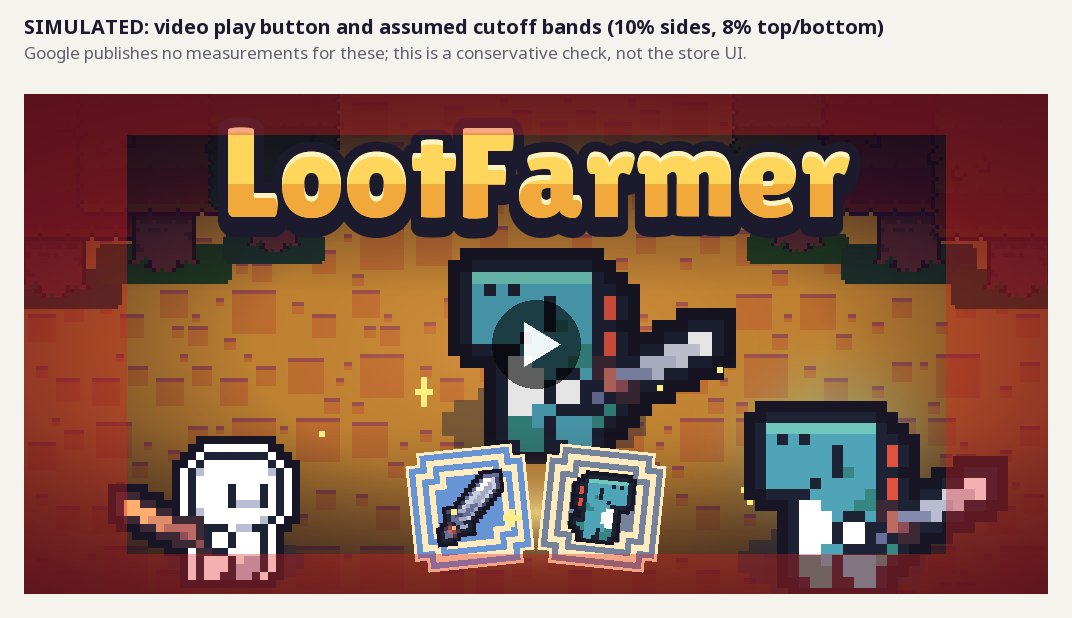
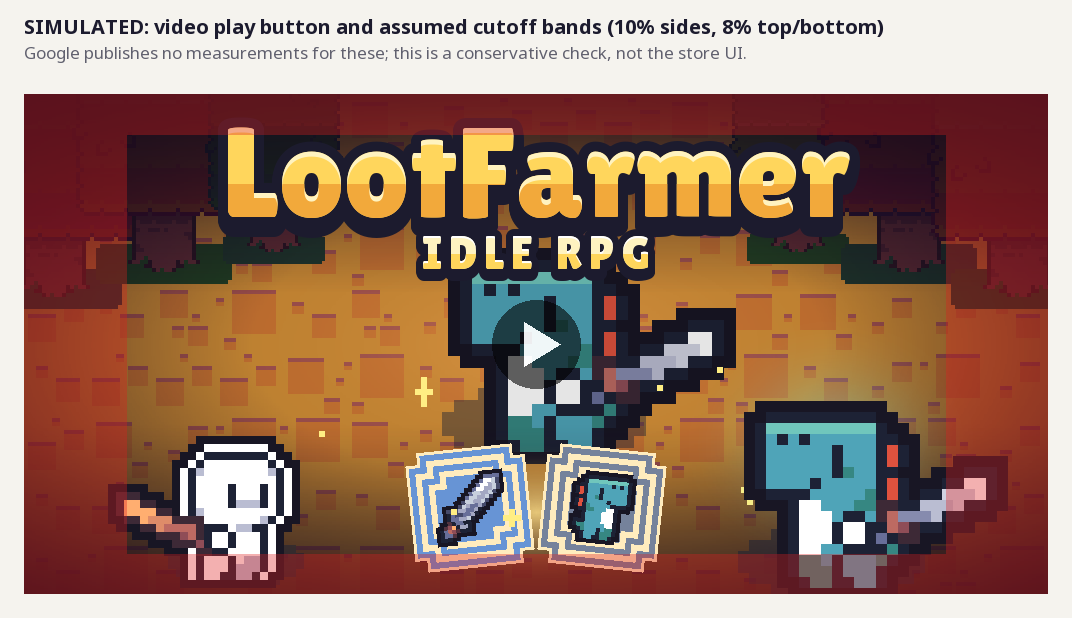
Change 28 correction: add IDLE RPG subtitle to feature graphic title
The approved name is "LootFarmer: Idle RPG". Add "IDLE RPG" as a subtitle
locked up beneath the unchanged LootFarmer title in the feature graphic and
in the portrait end-card framing preview.

- components.json: subtitle style (Lilita One, same dark outline and
  stepped depth, letter-spaced, cream-to-gold fill); new subtitle layer in
  final.json and portrait_endcard_preview.json, exported on its own.
- Composer: letter-spacing support through one text helper; with no
  tracking the title renders byte-identically (verified by hash).
- Pixel diff vs the previous version is confined to the subtitle's own
  box; characters, equipment, background and lighting unchanged.
- Readable at 240 px; inside the simulated safe area, clear of the
  simulated play button. Review sheets, evidence and docs regenerated.

Icons 5/5, screenshots 24/24 and trailer byte-identical; export manifest
PASS (232 files); suite 36/36.

Changed region(s): [[0.3694, 0.3689, 0.6157, 0.4612]]

diff --git a/marketing/brand/feature_graphic/compose_feature_graphic.py b/marketing/brand/feature_graphic/compose_feature_graphic.py
@@ -329,13 +329,27 @@ def layer_item(canvas, spec):
     place(canvas, treat(im, spec), spec['at'])
 
 
+def draw_text(d: ImageDraw.ImageDraw, xy, text: str, font, tracking: int = 0, **kw) -> None:
+    """ImageDraw.text with optional letter spacing; tracking 0 is the plain single call."""
+    if not tracking:
+        d.text(xy, text, font=font, **kw)
+        return
+    x, y = xy
+    for ch in text:
+        d.text((x, y), ch, font=font, **kw)
+        x += font.getlength(ch) + tracking
+
+
 def wordmark_image(spec: dict) -> Image.Image:
-    w = {**COMPONENTS['wordmark'], **spec}
+    # A layer may name a style (e.g. "subtitle") that overrides the wordmark defaults.
+    w = {**COMPONENTS['wordmark'], **COMPONENTS.get(spec.get('style', 'wordmark'), {}), **spec}
     font = ImageFont.truetype(str(ROOT / w['font']), w['size'])
     text = w['text']
     stroke = w['outline']
+    track = w.get('tracking', 0)
     probe = ImageDraw.Draw(Image.new('RGBA', (1, 1)))
-    box = probe.textbbox((0, 0), text, font=font, stroke_width=stroke)
+    box = list(probe.textbbox((0, 0), text, font=font, stroke_width=stroke))
+    box[2] += track * (len(text) - 1)
     depth = w.get('depth', 0)
     pad = stroke + depth + 4
     tw, th = box[2] - box[0] + 2 * pad, box[3] - box[1] + 2 * pad
@@ -344,12 +358,12 @@ def wordmark_image(spec: dict) -> Image.Image:
     org = (pad - box[0], pad - box[1] - depth // 2)
     dark = rgb(w['outline_color'])
     for i in range(depth, 0, -1):  # stepped extrusion, one pixel per step
-        d.text((org[0], org[1] + i), text, font=font, fill=dark, stroke_width=stroke, stroke_fill=dark)
-    d.text(org, text, font=font, fill=rgb(w['fill']), stroke_width=stroke, stroke_fill=dark)
+        draw_text(d, (org[0], org[1] + i), text, font, track, fill=dark, stroke_width=stroke, stroke_fill=dark)
+    draw_text(d, org, text, font, track, fill=rgb(w['fill']), stroke_width=stroke, stroke_fill=dark)
     if w.get('fill_bottom'):
         # Two-tone fill: the lower part of the letters in a deeper gold (a flat band, no blur).
         glyphs = Image.new('L', out.size, 0)
-        ImageDraw.Draw(glyphs).text(org, text, font=font, fill=255)
+        draw_text(ImageDraw.Draw(glyphs), org, text, font, track, fill=255)
         band = Image.new('L', out.size, 0)
         cut = org[1] + int((box[3] - box[1]) * w.get('fill_split', 0.62)) + box[1]
         ImageDraw.Draw(band).rectangle((0, cut, out.width, out.height), fill=255)
@@ -358,7 +372,7 @@ def wordmark_image(spec: dict) -> Image.Image:
         out.alpha_composite(low)
     if w.get('shine'):
         glyphs = Image.new('L', out.size, 0)
-        ImageDraw.Draw(glyphs).text(org, text, font=font, fill=255)
+        draw_text(ImageDraw.Draw(glyphs), org, text, font, track, fill=255)
         shifted = Image.new('L', out.size, 0)
         shifted.paste(glyphs, (0, w['shine'][1]))
         edge = ImageChops.subtract(glyphs, shifted)

diff --git a/marketing/brand/feature_graphic/README.md b/marketing/brand/feature_graphic/README.md
@@ -15,11 +15,11 @@ python marketing/brand/feature_graphic/compose_feature_graphic.py --check   # 10
 ```
 
 Requirements: Python 3 with Pillow (the same as `marketing/brand/compose_brand.py`). Output is
[2 lines of base64/hex data omitted]
 
 | File | What |
 |---|---|
-| `compositions/final.json` | **The store graphic.** 15 named layers, back to front, canvas-pixel coordinates. |
+| `compositions/final.json` | **The store graphic.** 16 named layers, back to front, canvas-pixel coordinates. |
 | `compositions/concept_a_loot_bridge.json`, `concept_b_wardrobe.json`, `concept_c_boss_drop.json` | The three explored concepts (A was selected). |
 | `compositions/portrait_endcard_preview.json` | Static 1080x1920 framing study for a *future* trailer end card. |
 | `components.json` | Shared pieces: actors (catalog outfit + weapon + frame), wordmark style, slot panel, spark sheet, tree boxes. |
@@ -44,8 +44,10 @@ Open `compositions/final.json`; each line is one layer. Common edits:
 - **Pose:** `"frame": [row, col]` on the 24x24 sheet (row 0 idle, row 3 the effort face) and `"swing": n`, the
   64x32 attack frame drawn over the body exactly as `scenes/game/actor.tscn` places it. Frame 0 + normal face is the
   game's attack wind-up; frame 2 + row 3 is the contact frame (big crescent, hides the face at this size).
-- **Wordmark:** `components.json > wordmark` (text, font, size, two-tone fill, outline, stepped depth). The title text
-  is the approved name only; the composer adds no other copy.
+- **Wordmark:** `components.json > wordmark` (text, font, size, two-tone fill, outline, stepped depth) and
+  `components.json > subtitle` ("IDLE RPG": same font, outline colour and stepped depth, smaller, letter-spaced,
+  cream-to-gold). Together they spell the approved title **LootFarmer: Idle RPG**; the composer adds no other copy.
+  A `wordmark` layer picks a style with `"style": "subtitle"`; `tracking` is letter spacing in pixels.
 - **Colour treatments:** `tint` + `tint_amount` (multiply), `darken`, `opacity`, `rim` (1 source-pixel outline),
   `glow` (soft light), `band` (gradient shade), `vignette`.
 
@@ -76,6 +78,7 @@ when moving layers.
 | 12 | hero_glow | colour treatment |
 | 13 | player_after | the same player wearing `boss-teal-dinosaur_outfit_t2` with `iron_sword` (wind-up frame), x11 |
 | 14 | wordmark | "LootFarmer", Lilita One (OFL), gold two-tone fill, dark outline, 10 px stepped depth |
+| 15 | subtitle | "IDLE RPG", Lilita One 46 px, 7 px tracking, cream-to-gold fill, the same dark outline and 5 px depth; drawn in front, tucked into the title's extrusion (ink y 135..187), clear of the boss's eyes and the simulated play button |
 
 ## Future portrait trailer end card (plan only; no video was made or changed)
 
@@ -83,7 +86,8 @@ The landscape graphic must **not** be stretched or cropped into 9:16. Recompose 
 (`source_layers/final/` or, better, re-render `portrait_endcard_preview.json`, which already restages them):
 
 - **Canvas 1080x1920.** Safe margins: 90 px left/right, 220 px top, 300 px bottom (platform UI and captions).
-- **Title:** wordmark at 168 px Lilita (about 840 px wide), centred at y = 640 (upper third), on the dark top shade.
+- **Title:** wordmark at 168 px Lilita (about 840 px wide), centred at y = 640 (upper third), on the dark top shade;
+  "IDLE RPG" subtitle at 62 px (9 px outline, 7 px depth, 10 px tracking) centred at y = 758, tucked under it.
 - **Story, top to bottom:** boss (x17) centred at feet y = 1260; the two slots (156 px) just in front at y = 1336;
   plain player (x11) bottom-left and outfitted player (x14) bottom-right, feet at y = 1640.
 - **Background:** the same Summer sand, tiled at x5 to fill the height (tile, never stretch); trees across the top
@@ -91,6 +95,6 @@ The landscape graphic must **not** be stretched or cropped into 9:16. Recompose 
 - **Suggested motion (future task):** 1) background + boss fade in from black over the trailer's last gameplay
   shot; 2) the two slots drop in with the spark frames played as the in-game 16-frame animation; 3) the plain player
   is shown, then the outfitted player appears (a hard swap reads as "equipped", like the game); 4) the wordmark
-  fades/scales in last and holds at least 1.5 s. Keep the music under it per Playbook 133.2/133.3.
+  fades/scales in last, the subtitle a beat after it, and both hold at least 1.5 s. Keep the music under it per Playbook 133.2/133.3.
 - Static framing preview: `store_assets/branding/review/feature_graphic_portrait_endcard_preview.png`
   (copy in `docs/Change_28_Evidence/`). It is **not** the Play feature graphic and **not** a trailer frame.

diff --git a/docs/LootFarmer_Change_28_Report.md b/docs/LootFarmer_Change_28_Report.md
@@ -9,14 +9,16 @@ graphic only. Icons, screenshots, trailer, gameplay, listing text and the reusab
 
 **Store file:** `store_assets/branding/feature_graphic_1024x500.png` (ignored folder; tracked copy
 `docs/Change_28_Evidence/feature_graphic_1024x500.png`). 1024 x 500, PNG, mode RGB (24-bit, no alpha channel),
[2 lines of base64/hex data omitted]
+(after the title correction below; the first approved version was `2b57077a…b5a27560`).
 
 **Direction: "enemy loot becomes your look."** Read left to right: the plain player; the Teal Dinosaur boss
 holding its Iron Sword; the two items that boss really drops, in the game's own inventory slots (tier colours,
 loot sparkle); the same player now wearing the Dinosaur outfit and holding the Iron Sword. The setting is the
 Dinosaur's own Summer map, on warm sand at sunset, so the teal characters stand out against complementary orange
 instead of the old green field. The wordmark "LootFarmer" (Lilita One, gold two-tone, dark outline and stepped
-depth) is the only text.
+depth) with the subtitle **IDLE RPG** beneath it, spelling the approved title *LootFarmer: Idle RPG*; that is
+the only text.
 
 Why this pairing: the outfit system makes the player look exactly like the enemy whose outfit they wear
 (`world.gd::_visual_look` uses the outfit's sheet as the body), so showing the boss and the outfitted player side by
@@ -84,7 +86,7 @@ was refused). The graphic is promotional art built from game layers and is not p
 ## Editable source and reproduction
 
 `marketing/brand/feature_graphic/` (inside `marketing/brand/.gdignore`; `marketing/*` excluded from the Release
-export). `compositions/final.json` holds 15 named layers, one per line. `components.json` holds the actors (catalog
+export). `compositions/final.json` holds 16 named layers, one per line. `components.json` holds the actors (catalog
 ids), wordmark style, slot and tree boxes. Full guide: `marketing/brand/feature_graphic/README.md`.
 
 ```powershell
@@ -142,6 +144,34 @@ which the game never loads. No AAB was exported and no version bump was made: no
 - `marketing/finalize_store_assets.py` no longer copies the feature graphic over
   `docs/Change_27_Evidence/feature_graphic_1024x500.png`, which stays the rejected original. Its screenshot, trailer
   and manifest logic is untouched.
+
+## Title correction: "IDLE RPG" subtitle (developer-approved design, follow-up)
+
+The developer approved the design and asked for the full approved name, **LootFarmer: Idle RPG**. This was a
+branding fix only, not a redesign.
+
+- **Main title unchanged:** same layer, typography, colours, outline and position. To support letter spacing,
+  the composer's text drawing went through one helper. With tracking 0 it makes the same call as before, and
+  re-rendering before adding the subtitle reproduced the previous hashes exactly (landscape `2b57077a…`,
+  portrait `06f7743d…`).
+- **Subtitle:** a new `subtitle` layer (`components.json > subtitle`): "IDLE RPG" in the same Lilita One, the
+  same dark outline colour and stepped depth, 46 px with 7 px letter spacing, and a cream-to-gold fill a step
+  lighter than the title so it ranks below it. It is drawn in front, tucked into the title's 10 px extrusion,
+  like a logo lockup. There is no free band between the title (ink to y 145) and the boss's head (y 154), and
+  moving the boss would put the simulated play button back on its face. So the subtitle covers only the top of
+  the boss's head, and the eyes stay visible.
+- **Portrait end-card preview:** the same subtitle at 62 px (9 px outline, 7 px depth, 10 px tracking), centred
+  at y = 758 under the 168 px title.
+- **Nothing else changed:** a pixel diff against the previous files is confined to the subtitle's own ink box,
+  (392,135)-(631,187) landscape and (376,723)-(702,794) portrait. Characters, equipment, background, lighting
+  and composition are identical.
+- **Readability:** at 512 and 360 px "IDLE RPG" is clearly legible. At **240 px** it is about 7 px tall and reads
+  cleanly (checked enlarged and in `feature_graphic_small_sizes.png`). At 160 px it is very small, while
+  "LootFarmer" still carries the brand. In the simulated overlays the subtitle is inside the assumed safe area
+  and clear of the play button.
+- **Rechecked:** feature graphic `--check` PASS; icons 5/5 byte-identical; screenshots 24/24 and trailer
+  identical to the Change 27 hashes; `finalize_store_assets.py --check` PASS; export manifest PASS (232 files);
+  regression suite rerun (result in the commit message).
 
 ## Limitations and open items
 

diff --git a/docs/LootFarmer_Asset_Registry.md b/docs/LootFarmer_Asset_Registry.md
@@ -6,7 +6,7 @@
 
 **Composition source (tracked, never ships):** `marketing/brand/compose_brand.py` + `brand_config.json`. Elements, all existing game art scaled by whole numbers with nearest-neighbour sampling: player in the Sprout outfit (`Characters 24x24/Character 1 v1.png`, idle frame), Sunflower (`Spring 2 v1.png`), helper Sprouts with the game's `helper_tint`, `Shadow.png`, item icons from `Items/16x16 All Items v1.png` (Emerald Sword, Diamond Axe/Sword, coin, gem at the catalog/resource regions), Spring grass/path tiles (`Basic Tiles 1.png`) and trees (`Basic Tiles 4 (Trees & Bushes).png`). Wordmark "LootFarmer" in Noto Sans weight 800 (toolkit copy, SIL OFL 1.1). No AI-generated or external imagery.
 
-**Feature graphic (Change 28, tracked source, never ships):** `marketing/brand/feature_graphic/` replaces the Change 27 composition (kept in `compose_brand.py`/`brand_config.json` as the record; the rejected file is `docs/Change_27_Evidence/feature_graphic_1024x500.png`). Elements: Teal Dinosaur outfit sheet `Characters 24x24/Special 3 v1.png` (boss and outfitted player), `Basic character v2.png` (plain player), Iron and Wood sword swings from `PixelPlainsAnimationPack` (frame 0), `iron_sword` icon from `Items/16x16 All Items v1.png`, Kenney `panel-014.png` slot (CC0) in catalog tier colours, `Sparks 25x27.png`, Summer sand tiles and trees, `Shadow.png`. Wordmark in Lilita One (`assets/GUIPackCartoon/Demo/Fonts/`, SIL OFL 1.1, notice in `marketing/brand/feature_graphic/licenses/`). The composer refuses loot an enemy does not carry or drop. Report: `docs/LootFarmer_Change_28_Report.md`; evidence `docs/Change_28_Evidence/`.
+**Feature graphic (Change 28, tracked source, never ships):** `marketing/brand/feature_graphic/` replaces the Change 27 composition (kept in `compose_brand.py`/`brand_config.json` as the record; the rejected file is `docs/Change_27_Evidence/feature_graphic_1024x500.png`). Elements: Teal Dinosaur outfit sheet `Characters 24x24/Special 3 v1.png` (boss and outfitted player), `Basic character v2.png` (plain player), Iron and Wood sword swings from `PixelPlainsAnimationPack` (frame 0), `iron_sword` icon from `Items/16x16 All Items v1.png`, Kenney `panel-014.png` slot (CC0) in catalog tier colours, `Sparks 25x27.png`, Summer sand tiles and trees, `Shadow.png`. Title "LootFarmer" with the subtitle "IDLE RPG" (approved name *LootFarmer: Idle RPG*) in Lilita One (`assets/GUIPackCartoon/Demo/Fonts/`, SIL OFL 1.1, notice in `marketing/brand/feature_graphic/licenses/`). The composer refuses loot an enemy does not carry or drop. Report: `docs/LootFarmer_Change_28_Report.md`; evidence `docs/Change_28_Evidence/`.
 
 **Store outputs (ignored `store_assets/`, `.gdignore`, never ship):** Play icon 512×512 RGBA, feature graphic 1024×500 RGB, 24 screenshots (raw masters + byte-identical upload copies), 7 raw AVI clips and the 30 s trailer MP4; provenance and SHA-256 in `store_assets/store_assets_manifest.json` (copy in `docs/Change_27_Evidence/`).
 
